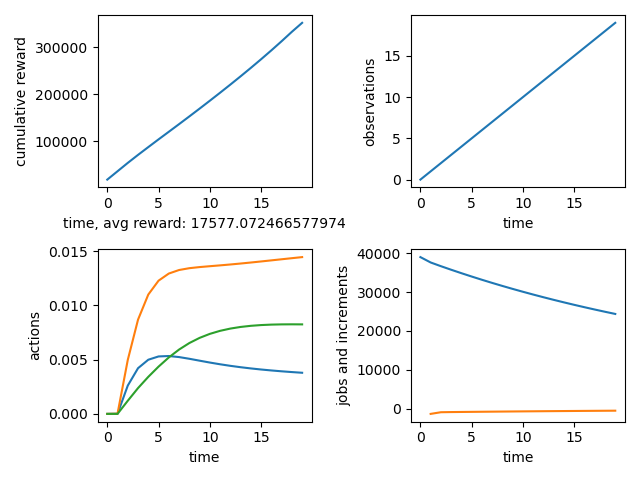
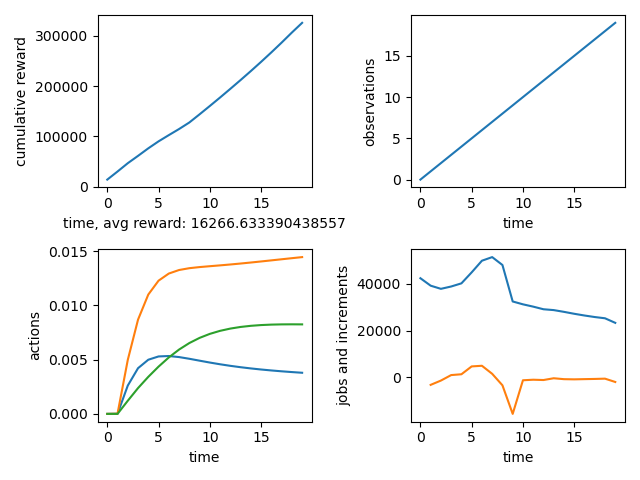
Fixed the evaluation of trained models.

diff --git a/local_agent_training_and_evaluation/evaluate.py b/local_agent_training_and_evaluation/evaluate.py
@@ -1,6 +1,7 @@
 #!/usr/bin/env python
 
 import os
+import numpy as np
 import gym
 from stable_baselines3 import PPO
 
@@ -10,7 +11,7 @@ from util import Evaluate
 os.chdir("../environment/") 
 env = gym.make("reference_environment_direct_deployment:reference-environment-direct-deployment-v0")
 os.chdir("../local_agent_training_and_evaluation/") 
-agent = PPO.load("MODEL_0")
+agent = PPO.load("MODEL_9")
 
 
 evaluate = Evaluate(env, agent)
@@ -22,6 +23,8 @@ print('Mean reward:',mean_reward)
 assert env.state.weightedRewardComponents_all[-1][3] == 0
 print(env.state.weightedRewardComponents_all[-1][3])
 
-os.chdir("../environment/") 
-env.plot("10models_100episodes_DirectDeployment_MODEL_0.png")
-os.chdir("../local_agent_training_and_evaluation/") 
+rewards_all = np.array(env.state.weightedRewardComponents_all)
+
+os.chdir("../environment/")
+env.plot("MODEL_9_10models_100episodes_DirectDeploymentRandomized.png")
+os.chdir("../local_agent_training_and_evaluation/")
